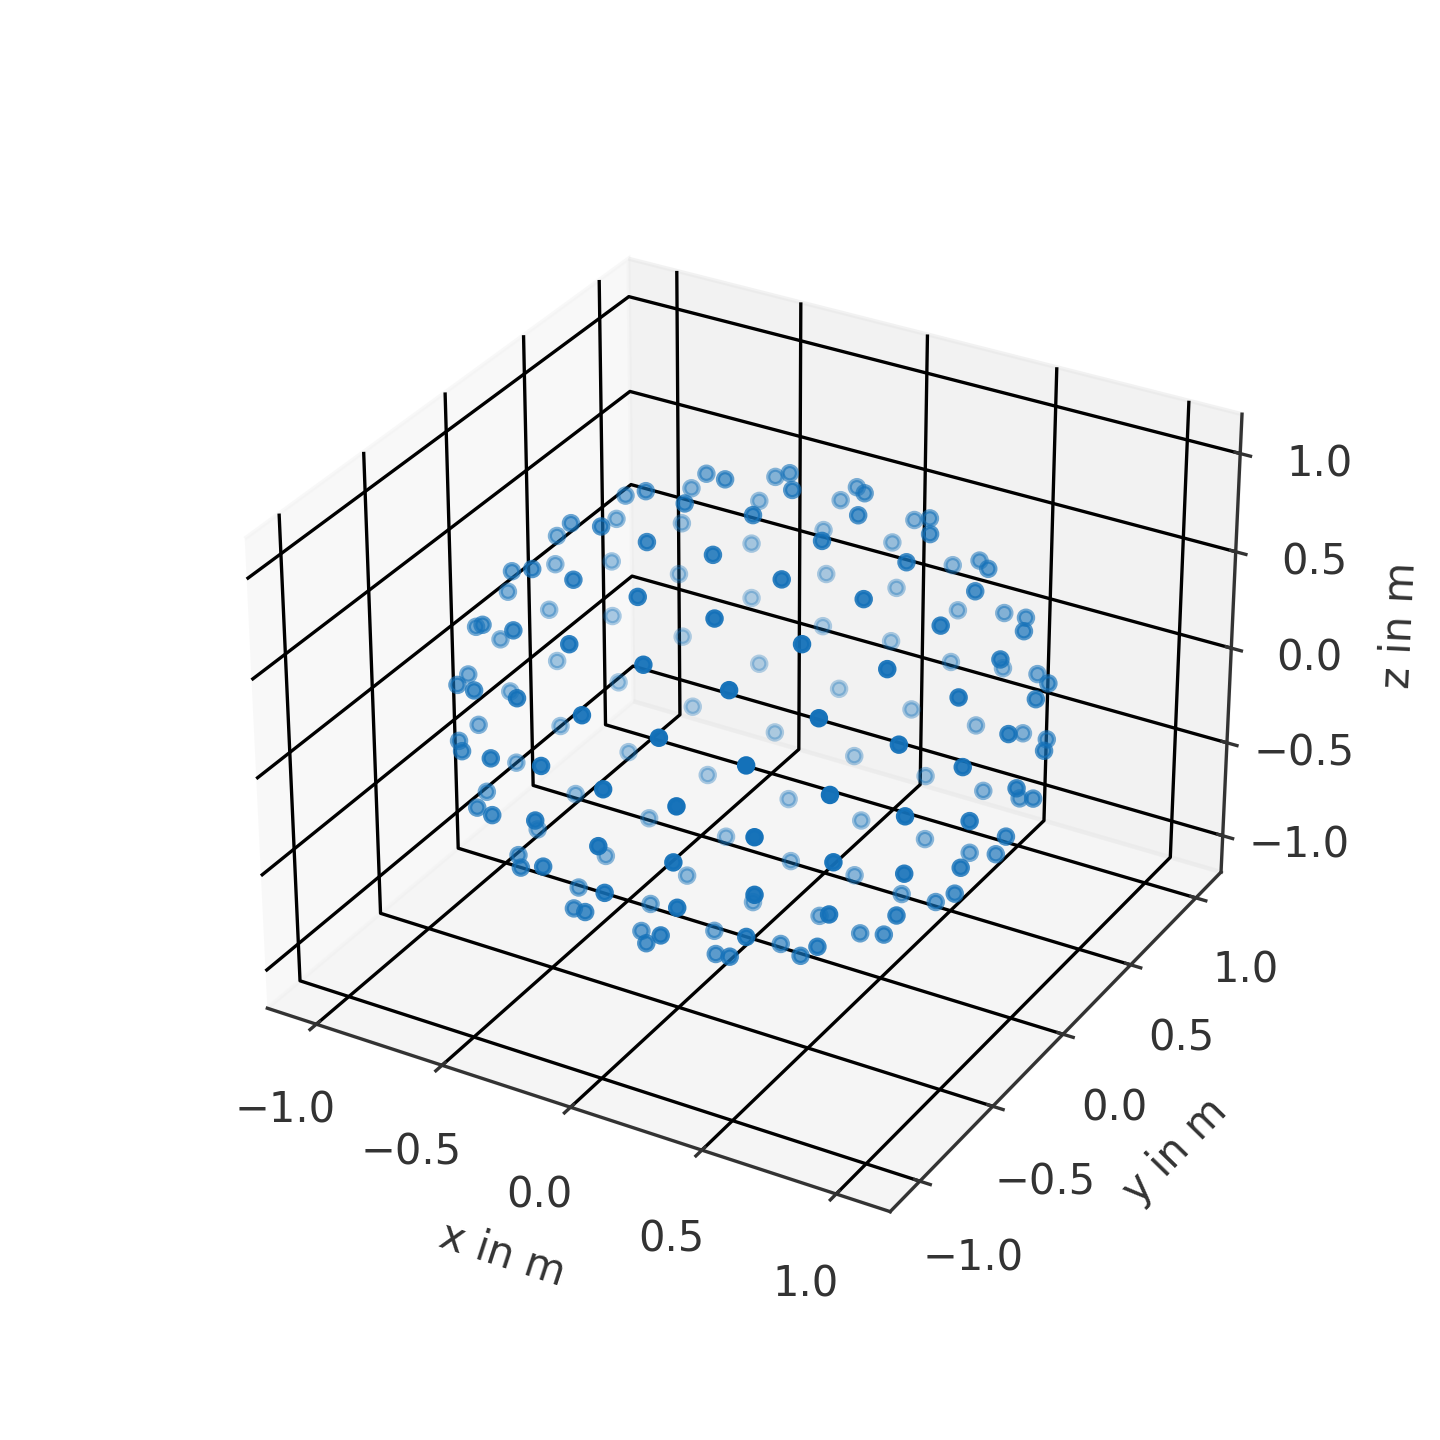
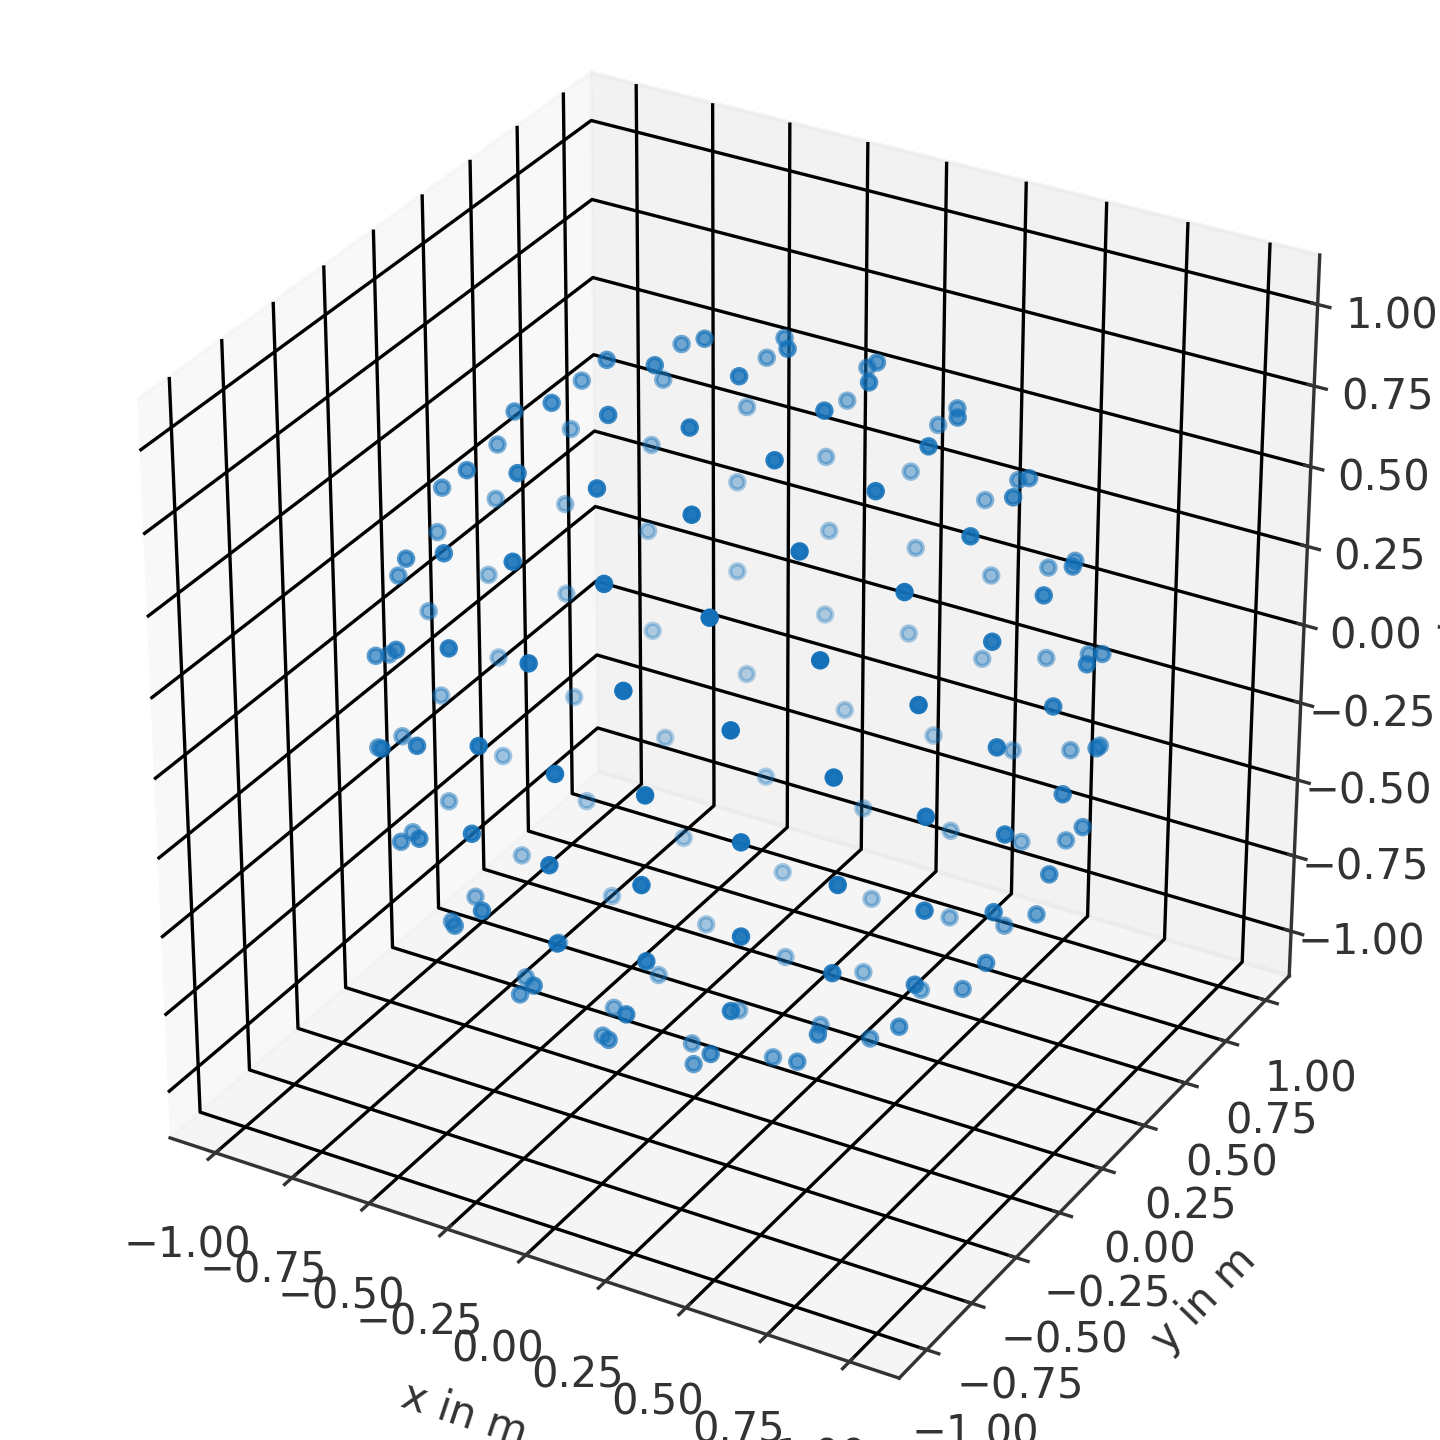
use intersphinx mapping in docs

diff --git a/mesh2hrtf/Output2HRTF/compute_dtfs.py b/mesh2hrtf/Output2HRTF/compute_dtfs.py
@@ -36,9 +36,8 @@ def compute_dtfs(
        be loaded. SOFA object/file must be of the convention
        SimpleFreeFieldHRIR or GeneralFIR
     smooth_fractions : number, None, optional
-        Apply `fractional octave smoothing
-        <https://pyfar.readthedocs.io/en/latest/modules/pyfar.dsp.html\
-        ?highlight=smooth#pyfar.dsp.smooth_fractional_octave>`_ to the DFTF.
+        Apply fractional octave smoothing to the DFTF using
+        :py:func:`pyfar.dsp.smooth_fractional_octave` to the DFTF.
         E.g. a value of ``3`` applies third octave smoothing and a value of
         ``1`` applies octave smoothing. The default ``None`` does not apply any
         smoothing.
@@ -46,13 +45,11 @@ def compute_dtfs(
         Define the phase of the inverse DFTF.
 
         ``'minimum'``
-            generate a `minimum phase response
-            <https://pyfar.readthedocs.io/en/latest/modules/pyfar.dsp.html?\
-            highlight=minimum%20phase#pyfar.dsp.minimum_phase>`_
+            generate a minimum phase response using
+            :py:func:`pyfar.dsp.minimum_phase`
         ``'linear'``
-            generate a `linear phase response
-            <https://pyfar.readthedocs.io/en/latest/modules/pyfar.dsp.html?\
-            highlight=linear%20phase#pyfar.dsp.linear_phase>`_
+            generate a linear phase response using
+            :py:func:`pyfar.dsp.linear_phase`
         ``'zero'``
             generates a zero phase response.
 
@@ -63,9 +60,10 @@ def compute_dtfs(
         ``'equal'``
             Uses equal weights across source positions
         ``'voronoi'``
-            Uses `spherical Voronoi weights
-            <https://pyfar.readthedocs.io/en/latest/modules/pyfar.samplings.html\
-            ?highlight=voronoi#pyfar.samplings.calculate_sph_voronoi_weights>`_
+            Computes spherical Voronoi weights using
+            :py:func:`spharpy.samplings.calculate_sampling_weights`. This
+            requires that all points defined by `sofa.SourcePosition` have
+            the same radius.
         array like
             Uses the weights provided in a list or numpy array. The size of the
             array like must agree with the number of HRTFs
@@ -75,13 +73,11 @@ def compute_dtfs(
     Returns
     -------
     sofa : sofar Sofa.object
-        The DTFs as Sofa object. Can be written to disk with `sofar.write_sofa
-        <https://sofar.readthedocs.io/en/latest/sofar.html#sofar.sofar.write_sofa\
-        sofar.sofar.write_sofa>`_.
+        The DTFs as :py:class:`sofar.Sofa` object. Can be written to disk with
+        :py:func:`sofar.write_sofa`.
     DTFT_inverse : pyfar Signal object
-        The inverse diffuse field transfer function as a `pyfar signal object
-        <https://pyfar.readthedocs.io/en/latest/classes/pyfar.audio.html#\
-        pyfar.classes.audio.Signal>`_
+        The inverse diffuse field transfer function as a
+        :py:class:`pyfar.Signal`.
     """
 
     if isinstance(sofa, str):
